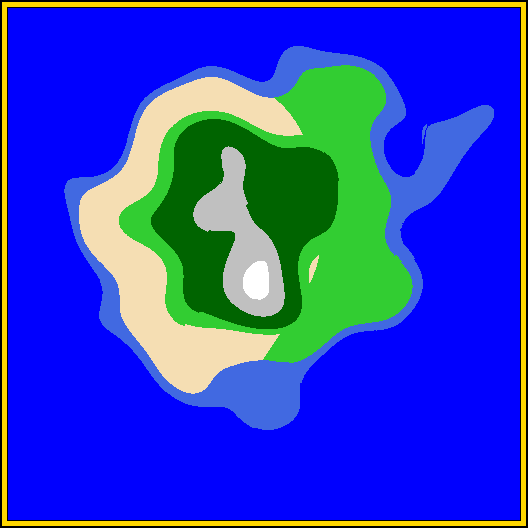
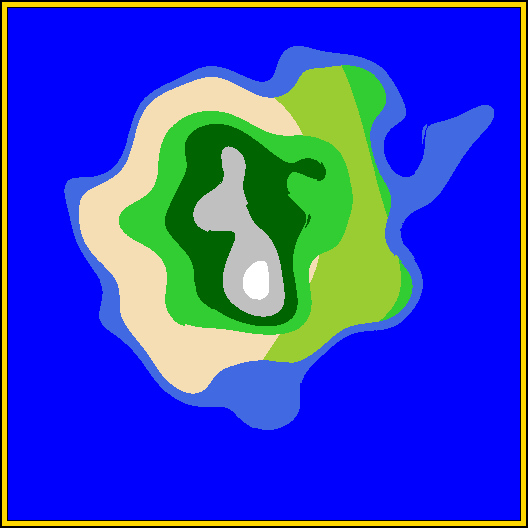
Add biome savanna, improve textures

Changed region(s): [[0.2727, 0.1212, 0.7576, 0.697], [0.3636, 0.2121, 0.4545, 0.2424]]

diff --git a/play.py b/play.py
@@ -18,7 +18,7 @@ from ursina.texture_importer import load_texture
 from ursina.ursinastuff import destroy
 from block import Bioms
 
-from generate_world import world_init, world_map_colors
+from generate_world import random_seed, world_init, world_map_colors
 from utils import *
 
 sand_block_texture = None
@@ -63,12 +63,14 @@ def get_texture(biome: str):
         return load_texture("textures/water.png")
     elif biome == Bioms.DESERT:
         return load_texture("textures/sand.png")
+    elif biome == Bioms.SAVANNA:
+        return load_texture("textures/savanna.png")
     elif biome == Bioms.PLANE:
-        return load_texture("textures/grass2.png")
+        return load_texture("textures/grass.png")
     elif biome == Bioms.HILL:
-        return load_texture("textures/grass3.png")
+        return load_texture("textures/grass_stone.png")
     elif biome == Bioms.MOUNTAIN:
-        return load_texture("textures/stone1.png")
+        return load_texture("textures/stone.png")
     elif biome == Bioms.MOUNTAIN_SNOW:
         return load_texture("textures/snow.png")
 
@@ -139,7 +141,7 @@ class UrsinaMC(Ursina):
     blocks: List[Block] = []
     render_size = 10
     world_size = 512
-    seed = 34315
+    seed = 34315  # random_seed()  # 34315
 
     def __init__(self, **kwargs):
         super().__init__(**kwargs)

diff --git a/block.py b/block.py
@@ -7,6 +7,7 @@ class Bioms(Enum):
     SEA = "blue"
     LAKE = "royalblue"
     DESERT = "wheat"
+    SAVANNA = "yellowgreen"
     PLANE = "limegreen"
     HILL = "darkgreen"
     MOUNTAIN = "silver"
@@ -36,9 +37,11 @@ class BiomeBlock:
         elif height < 0.5:
             if heat > 0.6:
                 self.biome = Bioms.DESERT
+            elif heat > 0.4:
+                self.biome = Bioms.SAVANNA
             else:
                 self.biome = Bioms.PLANE
-        elif height < 0.6:
+        elif height < 0.65:
             self.biome = Bioms.PLANE
         elif height < 0.8:
             self.biome = Bioms.HILL
